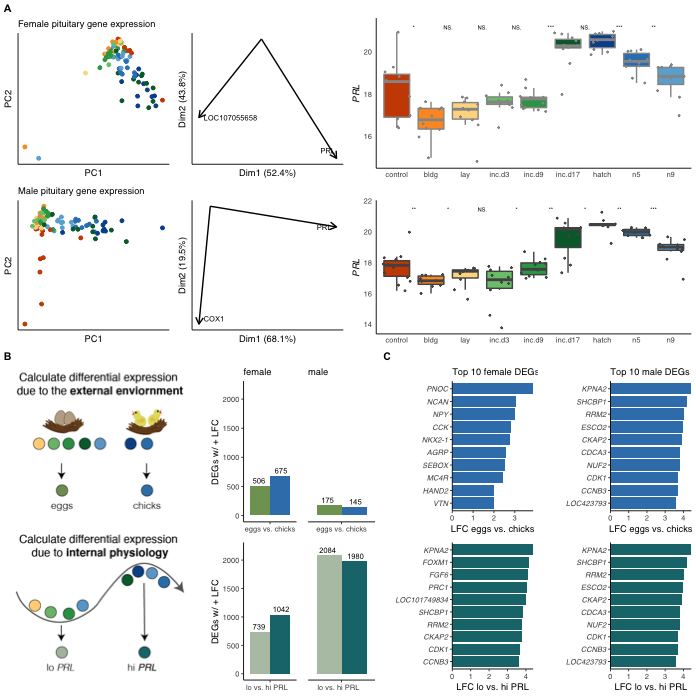
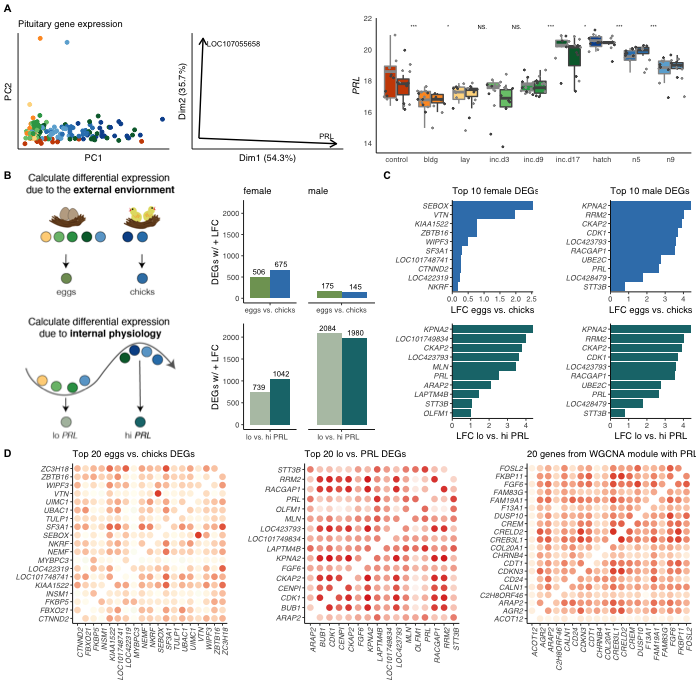
now with correaltions WGCNA and DESEq in Fig 3

diff --git a/analysis/figure-3.md b/analysis/figure-3.md
@@ -3,14 +3,14 @@ Figure 4: All things prolactin
 
     library(tidyverse)
 
-    ## ── Attaching packages ──────────────────────────────────────────────────────────────────────────────────────────────────── tidyverse 1.3.0 ──
+    ## ── Attaching packages ───────────────────────────────────────────────────────────────────────────────────────────── tidyverse 1.3.0 ──
 
     ## ✓ ggplot2 3.3.0.9000     ✓ purrr   0.3.3     
     ## ✓ tibble  2.1.3          ✓ dplyr   0.8.3     
     ## ✓ tidyr   1.0.0          ✓ stringr 1.4.0     
     ## ✓ readr   1.3.1          ✓ forcats 0.4.0
 
-    ## ── Conflicts ─────────────────────────────────────────────────────────────────────────────────────────────────────── tidyverse_conflicts() ──
+    ## ── Conflicts ──────────────────────────────────────────────────────────────────────────────────────────────── tidyverse_conflicts() ──
     ## x dplyr::filter() masks stats::filter()
     ## x dplyr::lag()    masks stats::lag()
 
@@ -155,10 +155,13 @@ PCA data
     pca2f <- makefvizdf("pituitary", charlevels, "female")  
 
     pca1m <- subsetmakepca("pituitary", charlevels, "male") 
-    pca2m <- makefvizdf("pituitary", charlevels, "male")    
+    pca2m <- makefvizdf("pituitary", charlevels, "male")
 
-subset PRL vsd
-==============
+    pca1 <- subsetmakepca("pituitary", charlevels, sexlevels)   
+    pca2 <- makefvizdf("pituitary", charlevels, sexlevels)  
+
+Hi Lo PRL and WGCNA PRL
+=======================
 
     # `candidatevsd` loaded with `source("../R/wrangledata.R")`
 
@@ -192,6 +195,14 @@ subset PRL vsd
 
     PRLpitF <- PRLpit %>% filter( sex == "female" )
     PRLpitM <- PRLpit %>% filter( sex == "male")
+
+### WGCNA prolactin module
+
+    ## genes WGCNA prl module
+
+    WGCNAgenes <- read_csv("../results/PRLmodule.csv") %>% pull(x)
+
+    WGCNAvsd <- getcandidatevsd(WGCNAgenes, "pituitary", sexlevels) 
 
 Internal versus external hyotheses
 ----------------------------------
@@ -236,94 +247,104 @@ Internal versus external hyotheses
     PRLDEGs <- allDEG2 %>%
       filter(tissue == "pituitary", comparison == "lo vs. hi PRL   ",
              direction == "hi") %>%
-      arrange(desc(comparison))
+      arrange(desc(logpadj))
     PRLDEGs
 
     ## # A tibble: 3,022 x 8
-    ##    sex    tissue   comparison     direction gene       lfc     padj logpadj
-    ##    <chr>  <fct>    <fct>          <fct>     <chr>    <dbl>    <dbl>   <dbl>
-    ##  1 female pituita… "lo vs. hi PR… hi        KPNA2     4.39 1.09e-17   17.0 
-    ##  2 female pituita… "lo vs. hi PR… hi        FOXM1     4.19 3.60e- 8    7.44
-    ##  3 female pituita… "lo vs. hi PR… hi        FGF6      4.13 2.41e-16   15.6 
-    ##  4 female pituita… "lo vs. hi PR… hi        PRC1      4.08 1.13e- 3    2.95
-    ##  5 female pituita… "lo vs. hi PR… hi        LOC1017…  4.01 2.31e-17   16.6 
-    ##  6 female pituita… "lo vs. hi PR… hi        SHCBP1    3.83 9.89e-13   12.0 
-    ##  7 female pituita… "lo vs. hi PR… hi        RRM2      3.77 6.24e-15   14.2 
-    ##  8 female pituita… "lo vs. hi PR… hi        CKAP2     3.77 4.76e-17   16.3 
-    ##  9 female pituita… "lo vs. hi PR… hi        CDK1      3.68 6.24e-15   14.2 
-    ## 10 female pituita… "lo vs. hi PR… hi        CCNB3     3.61 1.65e-12   11.8 
+    ##    sex    tissue   comparison      direction gene      lfc     padj logpadj
+    ##    <chr>  <fct>    <fct>           <fct>     <chr>   <dbl>    <dbl>   <dbl>
+    ##  1 male   pituita… "lo vs. hi PRL… hi        PRL      2.66 5.24e-31    30.3
+    ##  2 female pituita… "lo vs. hi PRL… hi        PRL      2.55 1.81e-28    27.7
+    ##  3 female pituita… "lo vs. hi PRL… hi        LAPTM4B  1.44 1.42e-20    19.8
+    ##  4 male   pituita… "lo vs. hi PRL… hi        KPNA2    4.44 1.73e-20    19.8
+    ##  5 male   pituita… "lo vs. hi PRL… hi        RACGAP1  3.57 1.73e-20    19.8
+    ##  6 female pituita… "lo vs. hi PRL… hi        ARAP2    2.10 1.47e-19    18.8
+    ##  7 male   pituita… "lo vs. hi PRL… hi        CKAP2    3.91 1.68e-19    18.8
+    ##  8 female pituita… "lo vs. hi PRL… hi        LOC423…  3.60 2.93e-18    17.5
+    ##  9 female pituita… "lo vs. hi PRL… hi        STT3B    1.05 1.08e-17    17.0
+    ## 10 female pituita… "lo vs. hi PRL… hi        KPNA2    4.39 1.09e-17    17.0
     ## # … with 3,012 more rows
 
     envDEGs <- allDEG2 %>%
       filter(tissue == "pituitary", comparison == "eggs vs. chicks",
              direction == "chicks") %>%
-      arrange(desc(comparison))
+      arrange(desc(logpadj))
     envDEGs
 
     ## # A tibble: 820 x 8
-    ##    sex    tissue    comparison      direction gene     lfc     padj logpadj
-    ##    <chr>  <fct>     <fct>           <fct>     <chr>  <dbl>    <dbl>   <dbl>
-    ##  1 female pituitary eggs vs. chicks chicks    PNOC    3.88 0.0308      1.51
-    ##  2 female pituitary eggs vs. chicks chicks    NCAN    3.07 0.0682      1.17
-    ##  3 female pituitary eggs vs. chicks chicks    NPY     3.03 0.0197      1.70
-    ##  4 female pituitary eggs vs. chicks chicks    CCK     2.82 0.0274      1.56
-    ##  5 female pituitary eggs vs. chicks chicks    NKX2-1  2.79 0.0906      1.04
-    ##  6 female pituitary eggs vs. chicks chicks    AGRP    2.57 0.0750      1.13
-    ##  7 female pituitary eggs vs. chicks chicks    SEBOX   2.54 0.00282     2.55
-    ##  8 female pituitary eggs vs. chicks chicks    MC4R    2.44 0.0344      1.46
-    ##  9 female pituitary eggs vs. chicks chicks    HAND2   2.00 0.0310      1.51
-    ## 10 female pituitary eggs vs. chicks chicks    VTN     1.98 0.000975    3.01
+    ##    sex    tissue   comparison     direction gene        lfc    padj logpadj
+    ##    <chr>  <fct>    <fct>          <fct>     <chr>     <dbl>   <dbl>   <dbl>
+    ##  1 male   pituita… eggs vs. chic… chicks    FKBP5     0.676 3.59e-4    3.45
+    ##  2 male   pituita… eggs vs. chic… chicks    NEMF      0.241 3.59e-4    3.45
+    ##  3 female pituita… eggs vs. chic… chicks    VTN       1.98  9.75e-4    3.01
+    ##  4 female pituita… eggs vs. chic… chicks    LOC10174… 0.268 9.75e-4    3.01
+    ##  5 female pituita… eggs vs. chic… chicks    NKRF      0.187 1.63e-3    2.79
+    ##  6 female pituita… eggs vs. chic… chicks    ZBTB16    0.777 1.94e-3    2.71
+    ##  7 male   pituita… eggs vs. chic… chicks    TULP1     1.71  2.02e-3    2.69
+    ##  8 female pituita… eggs vs. chic… chicks    CTNND2    0.261 2.48e-3    2.60
+    ##  9 female pituita… eggs vs. chic… chicks    SEBOX     2.54  2.82e-3    2.55
+    ## 10 male   pituita… eggs vs. chic… chicks    INSM1     0.551 3.15e-3    2.50
     ## # … with 810 more rows
 
-    ## genes WGCNA prl module
+    hilogenes <- PRLDEGs %>% head(20) %>% distinct(gene) %>% pull(gene)
+    eggchickgenes <- envDEGs %>% head(20) %>% distinct(gene) %>% pull(gene)
 
-    PRLgenes <- read_csv("../results/PRLmodule.csv") %>% pull(x)
+    hypothesisDEGs <- c(hilogenes, eggchickgenes, WGCNAgenes) %>% unique()
 
-    candidatevsd <- getcandidatevsd(PRLgenes, "pituitary", sexlevels) 
+    candidatevsd <- getcandidatevsd(hypothesisDEGs, "pituitary", sexlevels) 
 
-    df <- candidatevsd %>%
-        pivot_wider(names_from = gene, values_from = counts) %>%
-        select(-sex,-tissue, -treatment, -samples) %>%
-        correlate() %>%
-      focus(PRL)  %>%
-      arrange(rowname)
-    df
+    #candidateboxplot("pituitary", c("PNOC"), "female") + labs(x = NULL )  + theme( strip.text = element_blank())
+    #candidateboxplot("pituitary", c("KPNA2"), "male") + labs(x = NULL )  + theme( strip.text = element_blank())
 
-    ## # A tibble: 57 x 2
-    ##    rowname     PRL
-    ##    <chr>     <dbl>
-    ##  1 ACOT12    0.137
-    ##  2 AGR2      0.633
-    ##  3 ARAP2     0.648
-    ##  4 C2H8ORF46 0.253
-    ##  5 CALN1     0.744
-    ##  6 CD24      0.880
-    ##  7 CDKN3     0.544
-    ##  8 CDT1      0.499
-    ##  9 CHRNB4    0.591
-    ## 10 COL20A1   0.662
-    ## # … with 47 more rows
 
-    ## top correlations
-    c <- df %>%
-      arrange(desc(PRL)) %>% 
-      head(10)  %>%
-      mutate(PRLrounded = round(PRL, 2))%>% 
-      ggplot(aes(x = reorder(rowname, PRL), y = PRL)) +
-      geom_bar(stat = "identity") +
-      theme_B3() +
-      theme(axis.text.y = element_text(face = "italic")) +
-      labs(x = " ", y = "Correlation with PRL", subtitle = "Top 10 co-regulated genes") +
-      coord_flip() +
-      scale_y_continuous(expand = c(0, 0))
+    pithilo <- makecorrdf("female", "pituitary", hilogenes)
 
-    a1 <- plotpc12(pca1f, pca2f, pca1f$treatment, allcolors, "Female pituitary gene expression", " ")   
-    a2 <- plotprolactin(PRLpitF, PRLpitF$counts, "PRL", " ") + theme(axis.text.x = element_text())  
+    ## # A tibble: 6 x 17
+    ##   rowname  OLFM1  STT3B    PRL  ARAP2 LOC101749834    MLN LAPTM4B  FGF6
+    ##   <chr>    <dbl>  <dbl>  <dbl>  <dbl>        <dbl>  <dbl>   <dbl> <dbl>
+    ## 1 OLFM1   NA      0.831  0.839  0.722        0.752  0.782   0.827 0.692
+    ## 2 STT3B    0.831 NA      0.904  0.809        0.752  0.807   0.863 0.749
+    ## 3 PRL      0.839  0.904 NA      0.817        0.756  0.839   0.928 0.720
+    ## 4 ARAP2    0.722  0.809  0.817 NA            0.710  0.741   0.840 0.724
+    ## 5 LOC101…  0.752  0.752  0.756  0.710       NA      0.768   0.798 0.756
+    ## 6 MLN      0.782  0.807  0.839  0.741        0.768 NA       0.868 0.794
+    ## # … with 8 more variables: CENPI <dbl>, CDK1 <dbl>, BUB1 <dbl>,
+    ## #   LOC423793 <dbl>, KPNA2 <dbl>, RACGAP1 <dbl>, CKAP2 <dbl>, RRM2 <dbl>
 
-    a3 <- plotpc12(pca1m, pca2m, pca1m$treatment, allcolors, "Male pituitary gene expression", NULL)
-    a4 <- plotprolactin(PRLpitM, PRLpitM$counts, "PRL", " ") + theme(axis.text.x = element_text())
+    piteggchick <- makecorrdf("female", "pituitary", eggchickgenes)
 
-    a <- plot_grid(a1,a2,a3,a4, labels = c("A"), label_size = 8, rel_heights = c(1.1,1))
+    ## # A tibble: 6 x 20
+    ##   rowname  SF3A1 LOC101748741 FBXO21  UBAC1   NEMF KIAA1522  NKRF ZC3H18
+    ##   <chr>    <dbl>        <dbl>  <dbl>  <dbl>  <dbl>    <dbl> <dbl>  <dbl>
+    ## 1 SF3A1   NA            0.711  0.556  0.610  0.684    0.725 0.634  0.780
+    ## 2 LOC101…  0.711       NA      0.575  0.589  0.482    0.543 0.524  0.504
+    ## 3 FBXO21   0.556        0.575 NA      0.605  0.467    0.380 0.439  0.313
+    ## 4 UBAC1    0.610        0.589  0.605 NA      0.373    0.497 0.430  0.373
+    ## 5 NEMF     0.684        0.482  0.467  0.373 NA        0.512 0.424  0.547
+    ## 6 KIAA15…  0.725        0.543  0.380  0.497  0.512   NA     0.426  0.708
+    ## # … with 11 more variables: UIMC1 <dbl>, ZBTB16 <dbl>, CTNND2 <dbl>,
+    ## #   TULP1 <dbl>, WIPF3 <dbl>, INSM1 <dbl>, LOC422319 <dbl>, VTN <dbl>,
+    ## #   SEBOX <dbl>, FKBP5 <dbl>, MYBPC3 <dbl>
+
+    pitWGCNA <- makecorrdf("female", "pituitary", WGCNAgenes[1:20])
+
+    ## # A tibble: 6 x 21
+    ##   rowname ACOT12 C2H8ORF46 CHRNB4  F13A1 COL20A1 FAM83G  CD24 FOSL2  AGR2
+    ##   <chr>    <dbl>     <dbl>  <dbl>  <dbl>   <dbl>  <dbl> <dbl> <dbl> <dbl>
+    ## 1 ACOT12  NA         0.242  0.248  0.299   0.241  0.201 0.133 0.251 0.263
+    ## 2 C2H8OR…  0.242    NA      0.371  0.158   0.388  0.408 0.360 0.370 0.408
+    ## 3 CHRNB4   0.248     0.371 NA      0.336   0.325  0.413 0.618 0.265 0.596
+    ## 4 F13A1    0.299     0.158  0.336 NA       0.361  0.433 0.366 0.484 0.528
+    ## 5 COL20A1  0.241     0.388  0.325  0.361  NA      0.542 0.652 0.413 0.461
+    ## 6 FAM83G   0.201     0.408  0.413  0.433   0.542 NA     0.513 0.588 0.480
+    ## # … with 11 more variables: CALN1 <dbl>, DUSP10 <dbl>, CDT1 <dbl>,
+    ## #   CREM <dbl>, ARAP2 <dbl>, CDKN3 <dbl>, FAM19A1 <dbl>, FKBP11 <dbl>,
+    ## #   FGF6 <dbl>, CRELD2 <dbl>, CREB3L1 <dbl>
+
+    a1 <- plotpc12(pca1, pca2, pca1$treatment, allcolors, "Pituitary gene expression", " ")   
+    a2 <- plotprolactin(PRLpit, PRLpit$counts, "PRL", " ") + theme(axis.text.x = element_text())  
+
+    a <- plot_grid(a1,a2, labels = c("A"), label_size = 8)
 
 
     b1 <- png::readPNG("../figures/images/fig_fig3b.png")
@@ -356,8 +377,14 @@ Internal versus external hyotheses
 
     bc <- plot_grid(b,c, labels = c("B","C"), label_size = 8, rel_widths = c(1.2,1))
 
+    d1 <-plotcorrplot(piteggchick, NULL) + theme(legend.position = "none") + labs(subtitle = "Top 20 eggs vs. chicks DEGs")
+    d2 <- plotcorrplot(pithilo, NULL) + theme(legend.position = "none") + labs(subtitle = "Top 20 lo vs. PRL DEGs")
+    d3 <-plotcorrplot(pitWGCNA, NULL) + theme(legend.position = "none") + labs(subtitle = "20 genes from WGCNA module with PRL")
 
-    fig3 <- plot_grid(a, bc, nrow = 2, rel_heights = c(1,1))
+    d <- plot_grid(d1,d2,d3, nrow = 1, align = "h", labels = c("D"), label_size = 8)
+
+
+    fig3 <- plot_grid(a, bc, d, nrow = 3, rel_heights = c(1.2,2,1.8))
     fig3
 
 ![](../figures/fig3-1.png)
